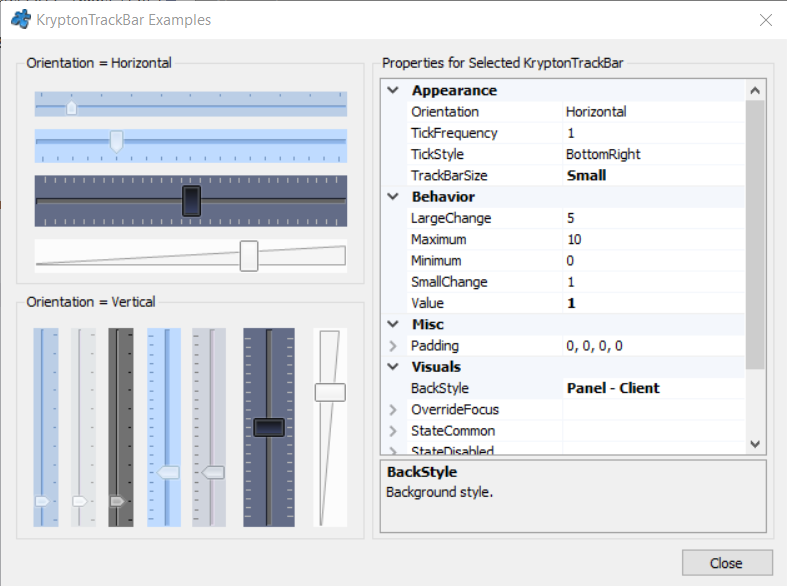
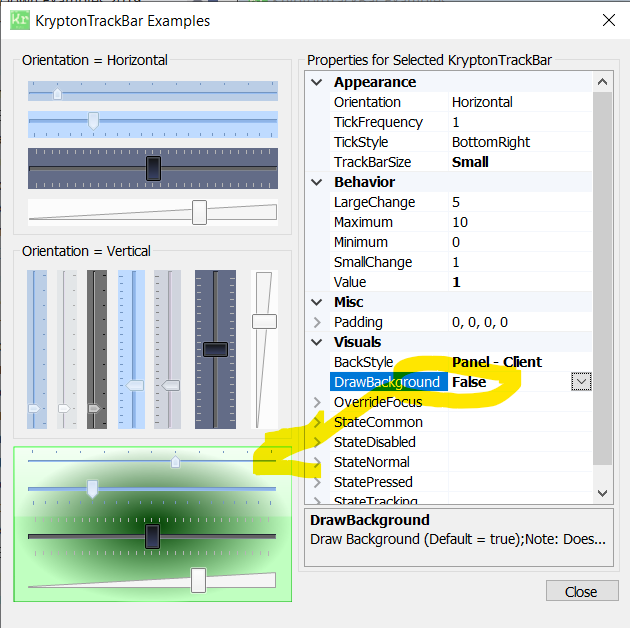
- Add "DrawBackground" as a visible Designer element - Update Trackbar test app - Update example image for Krypton-Suite/Standard-Toolkit#304

diff --git a/Source/Krypton Toolkit Examples/KryptonTrackBar Examples/Form1.Designer.cs b/Source/Krypton Toolkit Examples/KryptonTrackBar Examples/Form1.Designer.cs
@@ -45,9 +45,16 @@
             this.kryptonTrackBar6 = new Krypton.Toolkit.KryptonTrackBar();
             this.kryptonTrackBar7 = new Krypton.Toolkit.KryptonTrackBar();
             this.kryptonTrackBar8 = new Krypton.Toolkit.KryptonTrackBar();
+            this.kryptonPanel1 = new Krypton.Toolkit.KryptonPanel();
+            this.kryptonTrackBar12 = new Krypton.Toolkit.KryptonTrackBar();
+            this.kryptonTrackBar13 = new Krypton.Toolkit.KryptonTrackBar();
+            this.kryptonTrackBar14 = new Krypton.Toolkit.KryptonTrackBar();
+            this.kryptonTrackBar15 = new Krypton.Toolkit.KryptonTrackBar();
             this.groupBox4.SuspendLayout();
             this.groupBox1.SuspendLayout();
             this.groupBox2.SuspendLayout();
+            ((System.ComponentModel.ISupportInitialize)(this.kryptonPanel1)).BeginInit();
+            this.kryptonPanel1.SuspendLayout();
             this.SuspendLayout();
             // 
             // propertyGrid
@@ -57,7 +64,7 @@
             | System.Windows.Forms.AnchorStyles.Right)));
             this.propertyGrid.Location = new System.Drawing.Point(6, 19);
             this.propertyGrid.Name = "propertyGrid";
-            this.propertyGrid.Size = new System.Drawing.Size(310, 364);
+            this.propertyGrid.Size = new System.Drawing.Size(310, 497);
             this.propertyGrid.TabIndex = 0;
             this.propertyGrid.ToolbarVisible = false;
             // 
@@ -66,7 +73,7 @@
             this.groupBox4.Controls.Add(this.propertyGrid);
             this.groupBox4.Location = new System.Drawing.Point(297, 12);
             this.groupBox4.Name = "groupBox4";
-            this.groupBox4.Size = new System.Drawing.Size(322, 389);
+            this.groupBox4.Size = new System.Drawing.Size(322, 522);
             this.groupBox4.TabIndex = 2;
             this.groupBox4.TabStop = false;
             this.groupBox4.Text = "Properties for Selected KryptonTrackBar";
@@ -74,7 +81,7 @@
             // buttonClose
             // 
             this.buttonClose.DialogResult = System.Windows.Forms.DialogResult.Cancel;
-            this.buttonClose.Location = new System.Drawing.Point(544, 407);
+            this.buttonClose.Location = new System.Drawing.Point(544, 540);
             this.buttonClose.Name = "buttonClose";
             this.buttonClose.Size = new System.Drawing.Size(75, 23);
             this.buttonClose.TabIndex = 3;
@@ -97,7 +104,6 @@
             // 
             // kryptonTrackBar4
             // 
-            this.kryptonTrackBar4.DrawBackground = true;
             this.kryptonTrackBar4.Location = new System.Drawing.Point(15, 148);
             this.kryptonTrackBar4.Name = "kryptonTrackBar4";
             this.kryptonTrackBar4.Orientation = System.Windows.Forms.Orientation.Horizontal;
@@ -112,7 +118,6 @@
             // 
             // kryptonTrackBar3
             // 
-            this.kryptonTrackBar3.DrawBackground = true;
             this.kryptonTrackBar3.Location = new System.Drawing.Point(15, 97);
             this.kryptonTrackBar3.Maximum = 30;
             this.kryptonTrackBar3.Name = "kryptonTrackBar3";
@@ -127,7 +132,6 @@
             // 
             // kryptonTrackBar2
             // 
-            this.kryptonTrackBar2.DrawBackground = true;
             this.kryptonTrackBar2.Location = new System.Drawing.Point(15, 60);
             this.kryptonTrackBar2.Maximum = 20;
             this.kryptonTrackBar2.Name = "kryptonTrackBar2";
@@ -142,7 +146,6 @@
             // 
             // kryptonTrackBar1
             // 
-            this.kryptonTrackBar1.DrawBackground = true;
             this.kryptonTrackBar1.Location = new System.Drawing.Point(15, 30);
             this.kryptonTrackBar1.Name = "kryptonTrackBar1";
             this.kryptonTrackBar1.Orientation = System.Windows.Forms.Orientation.Horizontal;
@@ -172,7 +175,6 @@
             // 
             // kryptonTrackBar11
             // 
-            this.kryptonTrackBar11.DrawBackground = true;
             this.kryptonTrackBar11.Location = new System.Drawing.Point(141, 28);
             this.kryptonTrackBar11.Maximum = 20;
             this.kryptonTrackBar11.Name = "kryptonTrackBar11";
@@ -187,7 +189,6 @@
             // 
             // kryptonTrackBar10
             // 
-            this.kryptonTrackBar10.DrawBackground = true;
             this.kryptonTrackBar10.Location = new System.Drawing.Point(74, 28);
             this.kryptonTrackBar10.Name = "kryptonTrackBar10";
             this.kryptonTrackBar10.Orientation = System.Windows.Forms.Orientation.Vertical;
@@ -201,7 +202,6 @@
             // 
             // kryptonTrackBar9
             // 
-            this.kryptonTrackBar9.DrawBackground = true;
             this.kryptonTrackBar9.Location = new System.Drawing.Point(44, 28);
             this.kryptonTrackBar9.Name = "kryptonTrackBar9";
             this.kryptonTrackBar9.Orientation = System.Windows.Forms.Orientation.Vertical;
@@ -215,7 +215,6 @@
             // 
             // kryptonTrackBar5
             // 
-            this.kryptonTrackBar5.DrawBackground = true;
             this.kryptonTrackBar5.Location = new System.Drawing.Point(238, 28);
             this.kryptonTrackBar5.Name = "kryptonTrackBar5";
             this.kryptonTrackBar5.Orientation = System.Windows.Forms.Orientation.Vertical;
@@ -231,7 +230,6 @@
             // 
             // kryptonTrackBar6
             // 
-            this.kryptonTrackBar6.DrawBackground = true;
             this.kryptonTrackBar6.Location = new System.Drawing.Point(182, 28);
             this.kryptonTrackBar6.Maximum = 20;
             this.kryptonTrackBar6.Name = "kryptonTrackBar6";
@@ -246,7 +244,6 @@
             // 
             // kryptonTrackBar7
             // 
-            this.kryptonTrackBar7.DrawBackground = true;
             this.kryptonTrackBar7.Location = new System.Drawing.Point(105, 28);
             this.kryptonTrackBar7.Maximum = 20;
             this.kryptonTrackBar7.Name = "kryptonTrackBar7";
@@ -261,7 +258,6 @@
             // 
             // kryptonTrackBar8
             // 
-            this.kryptonTrackBar8.DrawBackground = true;
             this.kryptonTrackBar8.Location = new System.Drawing.Point(14, 28);
             this.kryptonTrackBar8.Name = "kryptonTrackBar8";
             this.kryptonTrackBar8.Orientation = System.Windows.Forms.Orientation.Vertical;
@@ -273,11 +269,88 @@
             this.kryptonTrackBar8.Value = 1;
             this.kryptonTrackBar8.Enter += new System.EventHandler(this.trackBar_Enter);
             // 
+            // kryptonPanel1
+            // 
+            this.kryptonPanel1.Controls.Add(this.kryptonTrackBar12);
+            this.kryptonPanel1.Controls.Add(this.kryptonTrackBar13);
+            this.kryptonPanel1.Controls.Add(this.kryptonTrackBar14);
+            this.kryptonPanel1.Controls.Add(this.kryptonTrackBar15);
+            this.kryptonPanel1.Location = new System.Drawing.Point(12, 407);
+            this.kryptonPanel1.Name = "kryptonPanel1";
+            this.kryptonPanel1.Size = new System.Drawing.Size(279, 156);
+            this.kryptonPanel1.StateCommon.Color1 = System.Drawing.Color.FromArgb(((int)(((byte)(192)))), ((int)(((byte)(255)))), ((int)(((byte)(192)))));
+            this.kryptonPanel1.StateCommon.Color2 = System.Drawing.Color.FromArgb(((int)(((byte)(0)))), ((int)(((byte)(64)))), ((int)(((byte)(0)))));
+            this.kryptonPanel1.StateCommon.ColorAlign = Krypton.Toolkit.PaletteRectangleAlign.Local;
+            this.kryptonPanel1.StateCommon.ColorAngle = 45F;
+            this.kryptonPanel1.StateCommon.ColorStyle = Krypton.Toolkit.PaletteColorStyle.GlassCenter;
+            this.kryptonPanel1.StateCommon.Draw = Krypton.Toolkit.InheritBool.True;
+            this.kryptonPanel1.StateCommon.GraphicsHint = Krypton.Toolkit.PaletteGraphicsHint.AntiAlias;
+            this.kryptonPanel1.StateCommon.ImageAlign = Krypton.Toolkit.PaletteRectangleAlign.Inherit;
+            this.kryptonPanel1.StateCommon.ImageStyle = Krypton.Toolkit.PaletteImageStyle.Inherit;
+            this.kryptonPanel1.TabIndex = 4;
+            // 
+            // kryptonTrackBar12
+            // 
+            this.kryptonTrackBar12.BackStyle = Krypton.Toolkit.PaletteBackStyle.ButtonStandalone;
+            this.kryptonTrackBar12.DrawBackground = false;
+            this.kryptonTrackBar12.Location = new System.Drawing.Point(14, 121);
+            this.kryptonTrackBar12.Name = "kryptonTrackBar12";
+            this.kryptonTrackBar12.Orientation = System.Windows.Forms.Orientation.Horizontal;
+            this.kryptonTrackBar12.PaletteMode = Krypton.Toolkit.PaletteMode.ProfessionalSystem;
+            this.kryptonTrackBar12.Size = new System.Drawing.Size(250, 27);
+            this.kryptonTrackBar12.TabIndex = 7;
+            this.kryptonTrackBar12.TickStyle = System.Windows.Forms.TickStyle.None;
+            this.kryptonTrackBar12.TrackBarSize = Krypton.Toolkit.PaletteTrackBarSize.Large;
+            this.kryptonTrackBar12.Value = 7;
+            this.kryptonTrackBar12.VolumeControl = true;
+            // 
+            // kryptonTrackBar13
+            // 
+            this.kryptonTrackBar13.DrawBackground = false;
+            this.kryptonTrackBar13.Location = new System.Drawing.Point(14, 70);
+            this.kryptonTrackBar13.Maximum = 30;
+            this.kryptonTrackBar13.Name = "kryptonTrackBar13";
+            this.kryptonTrackBar13.Orientation = System.Windows.Forms.Orientation.Horizontal;
+            this.kryptonTrackBar13.PaletteMode = Krypton.Toolkit.PaletteMode.SparkleBlue;
+            this.kryptonTrackBar13.Size = new System.Drawing.Size(250, 41);
+            this.kryptonTrackBar13.TabIndex = 6;
+            this.kryptonTrackBar13.TickStyle = System.Windows.Forms.TickStyle.Both;
+            this.kryptonTrackBar13.TrackBarSize = Krypton.Toolkit.PaletteTrackBarSize.Large;
+            this.kryptonTrackBar13.Value = 15;
+            // 
+            // kryptonTrackBar14
+            // 
+            this.kryptonTrackBar14.DrawBackground = false;
+            this.kryptonTrackBar14.Location = new System.Drawing.Point(14, 33);
+            this.kryptonTrackBar14.Maximum = 20;
+            this.kryptonTrackBar14.Name = "kryptonTrackBar14";
+            this.kryptonTrackBar14.Orientation = System.Windows.Forms.Orientation.Horizontal;
+            this.kryptonTrackBar14.PaletteMode = Krypton.Toolkit.PaletteMode.Office2007Blue;
+            this.kryptonTrackBar14.Size = new System.Drawing.Size(250, 27);
+            this.kryptonTrackBar14.TabIndex = 5;
+            this.kryptonTrackBar14.TickStyle = System.Windows.Forms.TickStyle.TopLeft;
+            this.kryptonTrackBar14.TrackBarSize = Krypton.Toolkit.PaletteTrackBarSize.Medium;
+            this.kryptonTrackBar14.Value = 5;
+            // 
+            // kryptonTrackBar15
+            // 
+            this.kryptonTrackBar15.DrawBackground = false;
+            this.kryptonTrackBar15.Location = new System.Drawing.Point(14, 3);
+            this.kryptonTrackBar15.Name = "kryptonTrackBar15";
+            this.kryptonTrackBar15.Orientation = System.Windows.Forms.Orientation.Horizontal;
+            this.kryptonTrackBar15.PaletteMode = Krypton.Toolkit.PaletteMode.Office2010Blue;
+            this.kryptonTrackBar15.Size = new System.Drawing.Size(250, 20);
+            this.kryptonTrackBar15.TabIndex = 4;
+            this.kryptonTrackBar15.TickStyle = System.Windows.Forms.TickStyle.BottomRight;
+            this.kryptonTrackBar15.TrackBarSize = Krypton.Toolkit.PaletteTrackBarSize.Small;
+            this.kryptonTrackBar15.Value = 1;
+            // 
             // Form1
             // 
-            this.AutoScaleDimensions = new System.Drawing.SizeF(6F, 13F);
+            this.AutoScaleDimensions = new System.Drawing.SizeF(8F, 17F);
             this.AutoScaleMode = System.Windows.Forms.AutoScaleMode.Font;
-            this.ClientSize = new System.Drawing.Size(629, 438);
+            this.ClientSize = new System.Drawing.Size(629, 590);
+            this.Controls.Add(this.kryptonPanel1);
             this.Controls.Add(this.groupBox2);
             this.Controls.Add(this.groupBox1);
             this.Controls.Add(this.buttonClose);
@@ -294,6 +367,9 @@
             this.groupBox1.PerformLayout();
             this.groupBox2.ResumeLayout(false);
             this.groupBox2.PerformLayout();
+            ((System.ComponentModel.ISupportInitialize)(this.kryptonPanel1)).EndInit();
+            this.kryptonPanel1.ResumeLayout(false);
+            this.kryptonPanel1.PerformLayout();
             this.ResumeLayout(false);
 
         }
@@ -316,6 +392,11 @@
         private Krypton.Toolkit.KryptonTrackBar kryptonTrackBar6;
         private Krypton.Toolkit.KryptonTrackBar kryptonTrackBar7;
         private Krypton.Toolkit.KryptonTrackBar kryptonTrackBar8;
+        private Krypton.Toolkit.KryptonPanel kryptonPanel1;
+        private Krypton.Toolkit.KryptonTrackBar kryptonTrackBar12;
+        private Krypton.Toolkit.KryptonTrackBar kryptonTrackBar13;
+        private Krypton.Toolkit.KryptonTrackBar kryptonTrackBar14;
+        private Krypton.Toolkit.KryptonTrackBar kryptonTrackBar15;
     }
 }
 

diff --git a/Source/Krypton Toolkit Examples/KryptonTrackBar Examples/Form1.cs b/Source/Krypton Toolkit Examples/KryptonTrackBar Examples/Form1.cs
@@ -1,6 +1,7 @@
 using System;
 using System.ComponentModel;
 using System.Windows.Forms;
+
 using Krypton.Toolkit;
 
 namespace KryptonTrackBarExamples
@@ -46,6 +47,19 @@ namespace KryptonTrackBarExamples
             get => _trackBar.BackStyle;
             set => _trackBar.BackStyle = value;
         }
+
+        /// <summary>
+        /// Gets and sets if the control should draw the background.
+        /// </summary>
+        [Category("Visuals")]
+        [Description("Draw Background (Default = true);\r\nNote: Does not draw correctly in designer if false.")]
+        [RefreshProperties(RefreshProperties.Repaint)]
+        public bool DrawBackground
+        {
+            get => _trackBar.DrawBackground;
+            set => _trackBar.DrawBackground = value;
+        }
+
 
         /// <summary>
         /// Gets access to the track bar appearance when it has focus.